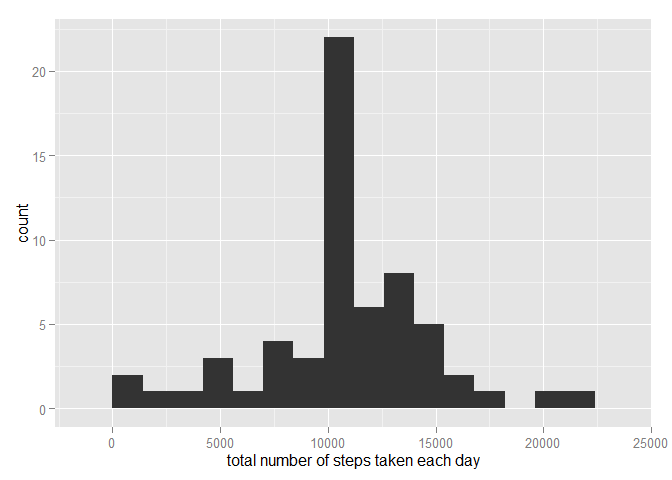
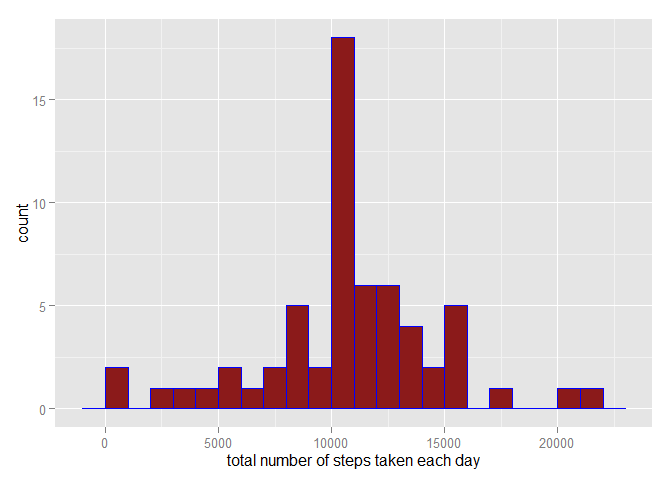
Update peer assessment 1

diff --git a/PA1_template.html b/PA1_template.html
@@ -90,8 +90,10 @@ data = read.csv(&quot;../data/activity.csv&quot;)</code></pre>
 <div id="make-a-histogram-of-the-total-number-of-steps-taken-each-day" class="section level3">
 <h3>2. Make a histogram of the total number of steps taken each day</h3>
 <pre class="r"><code>library(ggplot2)
-qplot(steps, data = tns, binwidth = 1000, xlab = &quot;total number of steps taken each day&quot;)</code></pre>
[1 lines of base64/hex data omitted]
+ggplot(data = tns, aes(x = steps)) +
+        geom_bar(binwidth = 1000, fill = &quot;firebrick4&quot;, color = &quot;blue&quot;) +
+        labs(x = &quot;total number of steps taken each day&quot;)</code></pre>
[1 lines of base64/hex data omitted]
 </div>
 <div id="calculate-and-report-the-mean-and-median-of-the-total-number-of-steps-taken-per-day" class="section level3">
 <h3>3. Calculate and report the mean and median of the total number of steps taken per day</h3>
@@ -145,8 +147,10 @@ filling &lt;- filling[n]</code></pre>
 <div id="make-a-histogram-of-the-total-number-of-steps-taken-each-day-and-calculate-and-report-the-mean-and-median-total-number-of-steps-taken-per-day." class="section level3">
 <h3>4. Make a histogram of the total number of steps taken each day and Calculate and report the mean and median total number of steps taken per day.</h3>
 <pre class="r"><code>tnsfill &lt;- aggregate(steps ~ date, filling, sum, na.rm = TRUE)
-qplot(steps, data = tnsfill, binwidth = 1400, xlab = &quot;total number of steps taken each day&quot;)</code></pre>
[1 lines of base64/hex data omitted]
+ggplot(data = tnsfill, aes(x = steps)) +
+        geom_bar(binwidth = 1000, fill = &quot;firebrick4&quot;, color = &quot;blue&quot;) +
+        labs(x = &quot;total number of steps taken each day&quot;)</code></pre>
[1 lines of base64/hex data omitted]
 <pre class="r"><code>mean(tnsfill$steps)</code></pre>
 <pre><code>## [1] 10765.64</code></pre>
 <pre class="r"><code>median(tnsfill$steps)</code></pre>

diff --git a/PA1_template.md b/PA1_template.md
@@ -45,7 +45,9 @@ tns = aggregate(steps ~ date, data, FUN = sum, na.rm = TRUE)
 
 ```r
 library(ggplot2)
-qplot(steps, data = tns, binwidth = 1000, xlab = "total number of steps taken each day")
+ggplot(data = tns, aes(x = steps)) +
+        geom_bar(binwidth = 1000, fill = "firebrick4", color = "blue") +
+        labs(x = "total number of steps taken each day")
 ```
 
 ![](PA1_template_files/figure-html/unnamed-chunk-4-1.png) 
@@ -139,7 +141,9 @@ filling <- filling[n]
 
 ```r
 tnsfill <- aggregate(steps ~ date, filling, sum, na.rm = TRUE)
-qplot(steps, data = tnsfill, binwidth = 1400, xlab = "total number of steps taken each day")
+ggplot(data = tnsfill, aes(x = steps)) +
+        geom_bar(binwidth = 1000, fill = "firebrick4", color = "blue") +
+        labs(x = "total number of steps taken each day")
 ```
 
 ![](PA1_template_files/figure-html/unnamed-chunk-10-1.png) 
